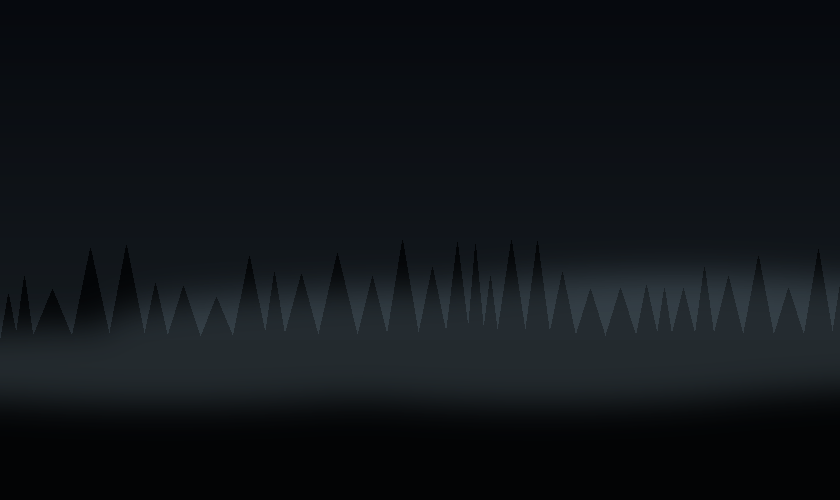
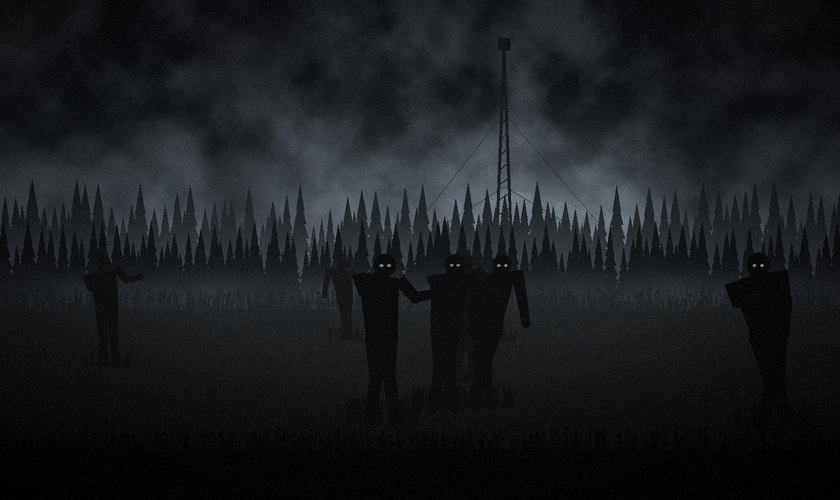
LiveArea redrawn: cloudy sky, spruce line, radio mast, smoke, the dead walking out of the grass, a worn title
Claude-Session: https://claude.ai/code/session_01QBkmBR5Xou4SDjuLaFFJeB

diff --git a/tools/livearea.py b/tools/livearea.py
@@ -1,66 +1,327 @@
 #!/usr/bin/env python3
 """
-Draws the LiveArea pictures (extras/livearea) from scratch: a plain night
-field with fog and the port's name (no artwork taken from the game).
+Draws the LiveArea pictures (extras/livearea) from scratch: a foggy field
+at dusk under a heavy sky, a spruce tree line, a radio mast, smoke and the
+silhouettes of the dead walking out of the grass. No artwork is taken from
+the game; everything here is generated.
 
   icon0.png    128x128  bubble
   bg0.png      840x500  LiveArea background
   startup.png  280x158  gate
   pic0.png     960x544  shown while the app starts
 
-Usage: tools/livearea.py <out dir>   (needs Pillow and a DejaVu font)
+Usage: tools/livearea.py <out dir>   (needs Pillow, numpy and DejaVu fonts)
 """
+import math
 import random
 import sys
 
-from PIL import Image, ImageDraw, ImageFilter, ImageFont
+import numpy as np
+from PIL import Image, ImageChops, ImageDraw, ImageFilter, ImageFont
 
-OUT = sys.argv[1]
-FONT = "/usr/share/fonts/truetype/dejavu/DejaVuSans-Bold.ttf"
+OUT = sys.argv[1] if len(sys.argv) > 1 else "."
+SERIF = "/usr/share/fonts/truetype/dejavu/DejaVuSerif-Bold.ttf"
+SANS = "/usr/share/fonts/truetype/dejavu/DejaVuSans-Bold.ttf"
+SS = 2  # drawn at twice the size, then scaled down (smooth edges)
 
 
-def scene(w, h, seed, title_size=0, sub=None):
-    random.seed(seed)
-    im = Image.new("RGB", (w, h))
-    px = im.load()
-    for y in range(h):
-        t = y / (h - 1)
-        c = (int(10 + 34 * t), int(14 + 40 * t), int(22 + 38 * t))
-        for x in range(w):
-            px[x, y] = c
-    d = ImageDraw.Draw(im)
-    horizon = int(h * 0.68)
-    # far tree line
-    x = 0
-    while x < w:
-        tw = random.randint(w // 60 + 2, w // 22 + 4)
-        th = random.randint(h // 12, h // 5)
-        d.polygon([(x, horizon), (x + tw // 2, horizon - th), (x + tw, horizon)], fill=(6, 9, 12))
-        x += tw - 2
-    d.rectangle([0, horizon, w, h], fill=(5, 7, 9))
-    # fog band over the horizon
-    fog = Image.new("RGB", (w, h), (0, 0, 0))
-    fd = ImageDraw.Draw(fog)
-    for _ in range(14):
-        cx, cy = random.randint(0, w), horizon + random.randint(-h // 14, h // 20)
-        rx, ry = random.randint(w // 6, w // 2), random.randint(h // 30 + 1, h // 12 + 2)
-        fd.ellipse([cx - rx, cy - ry, cx + rx, cy + ry], fill=(46, 54, 58))
-    fog = fog.filter(ImageFilter.GaussianBlur(max(2, h // 30)))
-    im = Image.blend(im, Image.eval(fog, lambda v: min(255, v * 2)), 0.35)
-    d = ImageDraw.Draw(im)
-    if title_size:
-        f = ImageFont.truetype(FONT, title_size)
-        text = "INTO THE DEAD"
+def noise(w, h, seed, octaves=6, scale=0.5):
+    """Fractal value noise in 0..1."""
+    rng = np.random.default_rng(seed)
+    out = np.zeros((h, w), np.float32)
+    amp, total = 1.0, 0.0
+    for o in range(octaves):
+        cw, ch = max(2, int(w * scale / 64 * 2 ** o) + 2), max(2, int(h * scale / 64 * 2 ** o) + 2)
+        layer = Image.fromarray((rng.random((ch, cw)) * 255).astype(np.uint8)).resize((w, h), Image.BICUBIC)
+        out += np.asarray(layer, np.float32) / 255 * amp
+        total += amp
+        amp *= 0.5
+    return out / total
+
+
+def sky(w, h, horizon, seed):
+    y = np.linspace(0, 1, h, dtype=np.float32)[:, None]
+    # dark at the top, a pale cold glow at the horizon
+    glow = np.clip(1 - np.abs(y - horizon / h) * 2.2, 0, 1) ** 2
+    base = np.stack([18 + 70 * glow + 6 * y, 22 + 76 * glow + 6 * y, 28 + 80 * glow + 4 * y], -1)
+    n = noise(w, h, seed, 7, 0.9)
+    n2 = noise(w, h, seed + 7, 5, 0.35)
+    clouds = np.clip((n * 0.65 + n2 * 0.55 - 0.45) * 2.2, 0, 1)[..., None]
+    lit = np.clip(1 - y * 1.1, 0, 1)[..., None]
+    img = base * (1 - clouds * 0.55) + clouds * (np.array([70, 76, 82]) * (0.5 + 0.5 * glow[..., None]) + 25 * lit)
+    # brighter break in the clouds
+    cx = 0.62
+    xs = np.linspace(0, 1, w, dtype=np.float32)[None, :]
+    rift = np.exp(-((xs - cx) ** 2) / 0.03 - ((y - horizon / h * 0.8) ** 2) / 0.02)[..., None]
+    img = img + rift * np.array([60, 64, 66]) * (0.6 + 0.4 * n[..., None])
+    return Image.fromarray(np.clip(img, 0, 255).astype(np.uint8), "RGB")
+
+
+def spruce(d, x, base, height, width, color):
+    tiers = max(4, int(height / (width * 0.45)))
+    for i in range(tiers):
+        t = i / tiers
+        ty = base - height * t
+        tw = width * (1 - t) * 0.5 + width * 0.06
+        d.polygon([(x - tw, ty), (x, ty - height / tiers * 1.9), (x + tw, ty)], fill=color)
+    d.line([(x, base), (x, base - height)], fill=color, width=max(1, int(width * 0.06)))
+
+
+def tree_line(d, w, top, bottom, rng, color, density):
+    x = -20
+    while x < w + 20:
+        h = rng.uniform(0.55, 1.0) * (bottom - top)
+        spruce(d, x, bottom, h, h * rng.uniform(0.32, 0.45), color)
+        x += h * rng.uniform(0.1, 0.25) / density
+    d.rectangle([0, bottom - 2, w, bottom + 400], fill=color)
+
+
+def mast(d, x, base, height, color, s):
+    top = base - height
+    d.line([(x - 4 * s, base), (x, top)], fill=color, width=max(1, int(1.6 * s)))
+    d.line([(x + 4 * s, base), (x, top)], fill=color, width=max(1, int(1.6 * s)))
+    for i in range(1, 14):
+        y = base - height * i / 14
+        hw = 4 * s * (1 - i / 14)
+        d.line([(x - hw, y), (x + hw, y - height / 28)], fill=color, width=max(1, s // 2))
+    for gx in (-height * 0.55, height * 0.6):  # guy wires
+        for f in (0.35, 0.7):
+            d.line([(x, base - height * f), (x + gx, base)], fill=color, width=1)
+    d.rectangle([x - 3 * s, top - 6 * s, x + 3 * s, top], fill=color)
+
+
+def smoke(img, x, base, height, seed, s):
+    w, h = img.size
+    layer = Image.new("L", (w, h), 0)
+    d = ImageDraw.Draw(layer)
+    rng = random.Random(seed)
+    for i in range(70):
+        t = i / 70
+        cx = x + math.sin(t * 5 + seed) * 10 * s + t * height * 0.35
+        cy = base - t * height
+        r = (5 + 24 * t) * s * rng.uniform(0.7, 1.2)
+        d.ellipse([cx - r, cy - r * 0.8, cx + r, cy + r * 0.8], fill=int(150 * (1 - t * 0.6)))
+    layer = layer.filter(ImageFilter.GaussianBlur(5 * s))
+    dark = Image.new("RGB", (w, h), (14, 15, 16))
+    return Image.composite(dark, img, layer)
+
+
+def limb(d, p0, p1, w0, w1, color):
+    dx, dy = p1[0] - p0[0], p1[1] - p0[1]
+    n = math.hypot(dx, dy) or 1
+    nx, ny = -dy / n, dx / n
+    d.polygon([(p0[0] + nx * w0, p0[1] + ny * w0), (p1[0] + nx * w1, p1[1] + ny * w1),
+               (p1[0] - nx * w1, p1[1] - ny * w1), (p0[0] - nx * w0, p0[1] - ny * w0)], fill=color)
+    d.ellipse([p1[0] - w1, p1[1] - w1, p1[0] + w1, p1[1] + w1], fill=color)
+
+
+def walker(d, x, base, H, rng, color, eyes):
+    """A shambling silhouette: hunched, head hanging forward, arms limp or reaching."""
+    lean = rng.uniform(0.02, 0.1) * H * rng.choice((-1, 1))
+    hip = (x + lean * 0.3, base - H * 0.47)
+    sh = (x + lean, base - H * 0.8)          # middle of the shoulders
+    sw = H * rng.uniform(0.11, 0.13)          # half shoulder width
+    tilt = rng.uniform(-0.04, 0.04) * H       # one shoulder lower
+    ls, rs = (sh[0] - sw, sh[1] + tilt), (sh[0] + sw, sh[1] - tilt)
+    # legs, one forward
+    st = rng.uniform(0.04, 0.1) * H
+    knee = rng.uniform(0.01, 0.04) * H
+    limb(d, (hip[0] - sw * 0.4, hip[1]), (x - st + knee, base - H * 0.24), H * 0.045, H * 0.035, color)
+    limb(d, (x - st + knee, base - H * 0.24), (x - st, base), H * 0.035, H * 0.028, color)
+    limb(d, (hip[0] + sw * 0.4, hip[1]), (x + st - knee, base - H * 0.25), H * 0.045, H * 0.035, color)
+    limb(d, (x + st - knee, base - H * 0.25), (x + st, base), H * 0.035, H * 0.028, color)
+    # torso with a torn hem
+    hem = [(hip[0] + sw * 0.75, hip[1] + H * 0.03)]
+    for i in range(1, 6):
+        hem.append((hip[0] + sw * 0.75 - sw * 1.5 * i / 5, hip[1] + H * (0.01 + 0.04 * rng.random())))
+    d.polygon([ls, (sh[0], sh[1] - H * 0.015), rs, (hip[0] + sw * 0.8, hip[1] - H * 0.05)] + hem +
+              [(hip[0] - sw * 0.8, hip[1] - H * 0.05)], fill=color)
+    # arms
+    for s0, side in ((ls, -1), (rs, 1)):
+        if rng.random() < 0.45:  # reaching forward
+            el = (s0[0] + side * H * 0.03 + H * 0.06, s0[1] + H * 0.1)
+            ha = (el[0] + H * 0.12, el[1] + H * rng.uniform(-0.03, 0.04))
+        else:  # hanging
+            el = (s0[0] + side * H * 0.03, s0[1] + H * 0.17)
+            ha = (el[0] + side * H * 0.01 + lean * 0.2, el[1] + H * 0.16)
+        limb(d, s0, el, H * 0.036, H * 0.03, color)
+        limb(d, el, ha, H * 0.03, H * 0.024, color)
+    # neck and a head hanging forward and to one side
+    hr = H * 0.058
+    hx, hy = sh[0] + rng.uniform(0.01, 0.04) * H, sh[1] - H * 0.06
+    limb(d, sh, (hx, hy), H * 0.03, H * 0.028, color)
+    d.ellipse([hx - hr, hy - hr * 1.15, hx + hr, hy + hr], fill=color)
+    if eyes:
+        er = max(1.0, hr * 0.16)
+        for ex in (hx - hr * 0.32, hx + hr * 0.38):
+            d.ellipse([ex - er, hy - er * 0.7, ex + er, hy + er * 0.7], fill=eyes)
+
+
+def grass(d, w, top, bottom, rng, color, s, count):
+    d.rectangle([0, top, w, bottom], fill=color)
+    for _ in range(count):
+        x = rng.uniform(0, w)
+        y = rng.uniform(top - 4 * s, top + 10 * s)
+        hgt = rng.uniform(6, 22) * s
+        bend = rng.uniform(-6, 6) * s
+        d.line([(x, y + 8 * s), (x + bend * 0.5, y - hgt * 0.5), (x + bend, y - hgt)], fill=color, width=max(1, s))
+        if rng.random() < 0.12:  # seed heads
+            r = 1.6 * s
+            d.ellipse([x + bend - r, y - hgt - r, x + bend + r, y - hgt + r], fill=color)
+
+
+def fog(img, top, bottom, seed, strength):
+    w, h = img.size
+    n = noise(w, h, seed, 5, 0.6)
+    y = np.linspace(0, 1, h, dtype=np.float32)[:, None]
+    band = np.exp(-((y - (top + bottom) / 2 / h) ** 2) / (((bottom - top) / h) ** 2 * 0.5))
+    a = np.clip(band * (0.5 + 0.7 * n) * strength, 0, 1)[..., None]
+    arr = np.asarray(img, np.float32)
+    col = np.array([92, 100, 106], np.float32)
+    return Image.fromarray(np.clip(arr * (1 - a) + col * a, 0, 255).astype(np.uint8))
+
+
+def vignette(img, amount):
+    w, h = img.size
+    ys, xs = np.mgrid[0:h, 0:w].astype(np.float32)
+    r = np.sqrt(((xs - w / 2) / (w / 2)) ** 2 + ((ys - h / 2) / (h / 2)) ** 2)
+    v = np.clip(1 - (r - 0.55) * amount, 0.25, 1)[..., None]
+    return Image.fromarray(np.clip(np.asarray(img, np.float32) * v, 0, 255).astype(np.uint8))
+
+
+def grain(img, seed, amount):
+    rng = np.random.default_rng(seed)
+    arr = np.asarray(img, np.float32)
+    arr += rng.normal(0, amount, arr.shape[:2])[..., None]
+    return Image.fromarray(np.clip(arr, 0, 255).astype(np.uint8))
+
+
+def distressed_text(img, text, font_path, size, center, fill, seed, tracking=0.12, shadow=True):
+    """Title letters worn by noise, with a soft dark halo behind them."""
+    w, h = img.size
+    mask = Image.new("L", (w, h), 0)
+    d = ImageDraw.Draw(mask)
+    while True:
+        f = ImageFont.truetype(font_path, size)
+        widths = [d.textlength(c, font=f) for c in text]
+        total = sum(widths) + tracking * size * (len(text) - 1)
+        if total <= w * 0.86 or size < 8:
+            break
+        size = int(size * 0.94)
+    x = center[0] - total / 2
+    asc, desc = f.getmetrics()
+    y = center[1] - (asc + desc) / 2
+    for c, cw in zip(text, widths):
+        d.text((x, y), c, font=f, fill=255)
+        x += cw + tracking * size
+    wear = noise(w, h, seed, 4, 6.0)
+    holes = (wear > 0.66).astype(np.float32)
+    m = np.asarray(mask, np.float32) / 255 * (1 - holes * 0.85)
+    mask = Image.fromarray((m * 255).astype(np.uint8))
+    if shadow:
+        halo = mask.filter(ImageFilter.GaussianBlur(size * 0.18))
+        img = Image.composite(Image.new("RGB", (w, h), (0, 0, 0)), img, halo.point(lambda v: min(255, v * 1.6)))
+    return Image.composite(Image.new("RGB", (w, h), fill), img, mask)
+
+
+def scene(w, h, seed, walkers=7, mast_x=0.6, smokes=(0.24, 0.8)):
+    W, H = w * SS, h * SS
+    rng = random.Random(seed)
+    horizon = int(H * 0.56)
+    img = sky(W, H, horizon, seed)
+    for sx in smokes:
+        img = smoke(img, int(W * sx), horizon - int(H * 0.08), int(H * 0.38), seed + int(sx * 100), SS * max(1, w // 300))
+    d = ImageDraw.Draw(img)
+    mast(d, int(W * mast_x), horizon - int(H * 0.04), int(H * 0.42), (26, 30, 34), SS * max(1, w // 400))
+    tree_line(d, W, horizon - int(H * 0.17), horizon, rng, (30, 35, 40), 1.3)
+    img = fog(img, horizon - int(H * 0.08), horizon + int(H * 0.04), seed + 1, 0.55)
+    d = ImageDraw.Draw(img)
+    tree_line(d, W, horizon - int(H * 0.1), horizon + int(H * 0.03), random.Random(seed + 2), (19, 22, 25), 1.0)
+    img = fog(img, horizon, horizon + int(H * 0.08), seed + 3, 0.45)
+    d = ImageDraw.Draw(img)
+    field = horizon + int(H * 0.06)
+    grass(d, W, field, H, rng, (34, 38, 41), SS, int(W / SS * 1.4))
+    arr = np.asarray(img, np.float32)
+    yy = np.linspace(0, 1, H, dtype=np.float32)[:, None, None]
+    dark = np.clip((yy - field / H) / (1 - field / H), 0, 1) ** 0.8
+    arr = arr * (1 - dark * 0.8)
+    img = Image.fromarray(np.clip(arr, 0, 255).astype(np.uint8))
+    d = ImageDraw.Draw(img)
+    # tufts of tall grass scattered down to the bottom, darker as they come closer
+    g = random.Random(seed * 31)
+    for _ in range(int(W * H / SS / SS / 60)):
+        t = g.random() ** 0.7
+        y = field + (H - field) * t
+        c = int(30 * (1 - t) + 6)
+        x = g.uniform(0, W)
+        for _ in range(g.randint(3, 7)):
+            hgt = g.uniform(5, 16) * SS * (0.6 + t)
+            bx = x + g.uniform(-4, 4) * SS
+            bend = g.uniform(-5, 5) * SS
+            d.line([(bx, y), (bx + bend * 0.4, y - hgt * 0.5), (bx + bend, y - hgt)], fill=(c, c + 2, c + 3), width=max(1, SS))
+    # the dead, far ones small and grey, near ones large and black
+    places = sorted((rng.uniform(0.04, 0.96), rng.random()) for _ in range(walkers))
+    for px, depth in sorted(places, key=lambda p: p[1]):
+        size = H * (0.13 + 0.32 * depth)
+        base = field + int(H * (0.02 + 0.28 * depth))
+        shade = int(24 - 18 * depth)
+        eyes = (170, 186, 170) if depth > 0.45 else None
+        walker(d, W * px, base, size, rng, (shade, shade + 2, shade + 3), eyes)
+        # grass in front of the legs
+        for _ in range(int(size / SS * 0.5)):
+            gx = W * px + rng.uniform(-0.2, 0.2) * size
+            hgt = rng.uniform(0.05, 0.14) * size
+            bend = rng.uniform(-0.03, 0.03) * size
+            d.line([(gx, base + 2), (gx + bend * 0.4, base - hgt * 0.5), (gx + bend, base - hgt)],
+                   fill=(shade, shade + 2, shade + 3), width=max(1, SS))
+    grass(d, W, int(H * 0.9), H, random.Random(seed + 5), (6, 7, 8), SS, int(W / SS * 0.9))
+    img = vignette(img, 0.9)
+    return img.resize((w, h), Image.LANCZOS)
+
+
+def finish(img, seed):
+    img = grain(img, seed, 3.0)
+    return img.convert("RGB").quantize(colors=256, method=Image.Quantize.MEDIANCUT, dither=Image.Dither.FLOYDSTEINBERG)
+
+
+def titled(img, title_size, sub, y, seed):
+    w, h = img.size
+    img = distressed_text(img, "INTO THE DEAD", SERIF, title_size, (w / 2, h * y), (222, 220, 210), seed)
+    if sub:
+        f = ImageFont.truetype(SANS, max(9, int(title_size * 0.26)))
+        d = ImageDraw.Draw(img)
+        text = " ".join(sub.upper())
         tw = d.textlength(text, font=f)
-        d.text(((w - tw) / 2, h * 0.16), text, font=f, fill=(214, 214, 206))
-        if sub:
-            f2 = ImageFont.truetype(FONT, max(9, title_size // 3))
-            sw = d.textlength(sub, font=f2)
-            d.text(((w - sw) / 2, h * 0.16 + title_size * 1.35), sub, font=f2, fill=(150, 156, 150))
-    return im.quantize(colors=256, method=Image.Quantize.MEDIANCUT, dither=Image.Dither.NONE)
+        sy = h * y + title_size * 0.72
+        lw = min(w * 0.3, tw * 0.5)
+        d.line([(w / 2 - tw / 2 - lw - 8, sy + f.size * 0.6), (w / 2 - tw / 2 - 8, sy + f.size * 0.6)], fill=(150, 34, 30), width=max(1, f.size // 8))
+        d.line([(w / 2 + tw / 2 + 8, sy + f.size * 0.6), (w / 2 + tw / 2 + lw + 8, sy + f.size * 0.6)], fill=(150, 34, 30), width=max(1, f.size // 8))
+        d.text((w / 2 - tw / 2, sy), text, font=f, fill=(176, 180, 176))
+    return img
 
 
-scene(128, 128, 1, 13).save(OUT + "/icon0.png", optimize=True)
-scene(840, 500, 2).save(OUT + "/bg0.png", optimize=True)
-scene(280, 158, 3, 26, "PS Vita port").save(OUT + "/startup.png", optimize=True)
-scene(960, 544, 4, 72, "PS Vita port").save(OUT + "/pic0.png", optimize=True)
+def icon():
+    # a single figure in the fog, the title across the top
+    W = 128 * 4
+    img = sky(W, W, int(W * 0.62), 11)
+    img = smoke(img, int(W * 0.78), int(W * 0.58), int(W * 0.45), 4, 4)
+    d = ImageDraw.Draw(img)
+    tree_line(d, W, int(W * 0.48), int(W * 0.62), random.Random(12), (24, 28, 32), 1.2)
+    img = fog(img, int(W * 0.55), int(W * 0.7), 13, 0.7)
+    d = ImageDraw.Draw(img)
+    grass(d, W, int(W * 0.7), W, random.Random(14), (9, 10, 11), 4, 220)
+    walker(d, W * 0.47, W * 1.32, W * 1.12, random.Random(5), (5, 6, 7), (205, 220, 196))
+    img = vignette(img, 1.1)
+    arr = np.asarray(img, np.float32)
+    yy = np.linspace(0, 1, W, dtype=np.float32)[:, None, None]
+    arr *= 1 - np.clip((yy - 0.62) / 0.38, 0, 1)[..., :] * 0.75  # dark band for the title
+    img = Image.fromarray(np.clip(arr, 0, 255).astype(np.uint8))
+    img = distressed_text(img, "INTO THE", SERIF, int(W * 0.13), (W / 2, W * 0.73), (226, 224, 214), 21, 0.14)
+    img = distressed_text(img, "DEAD", SERIF, int(W * 0.22), (W / 2, W * 0.88), (226, 224, 214), 22, 0.16)
+    return img.resize((128, 128), Image.LANCZOS)
+
+
+finish(icon(), 1).save(OUT + "/icon0.png", optimize=True)
+finish(scene(840, 500, 2, walkers=8), 2).save(OUT + "/bg0.png", optimize=True)
+finish(titled(scene(280, 158, 3, walkers=4, smokes=(0.2,)), 30, "PS Vita", 0.36, 31), 3).save(OUT + "/startup.png", optimize=True)
+finish(titled(scene(960, 544, 4, walkers=9), 96, "PS Vita Port", 0.3, 41), 4).save(OUT + "/pic0.png", optimize=True)
